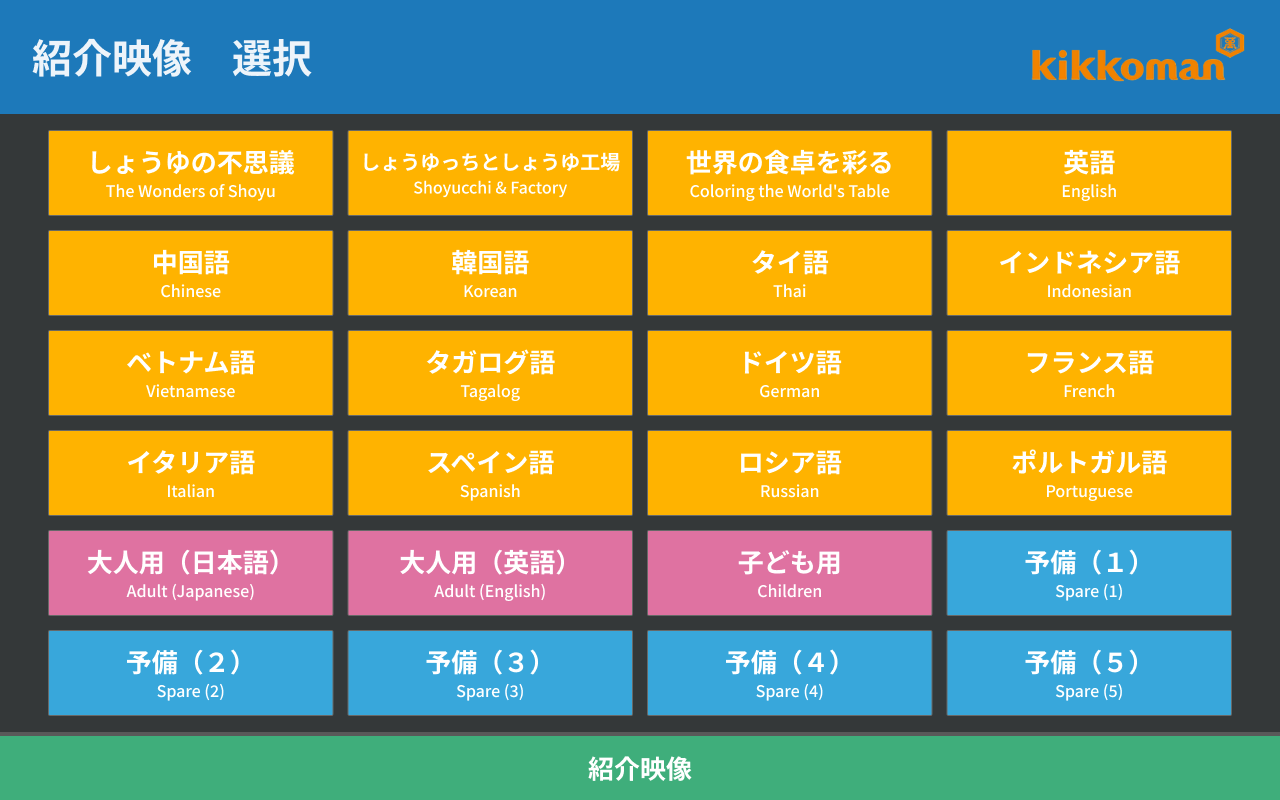
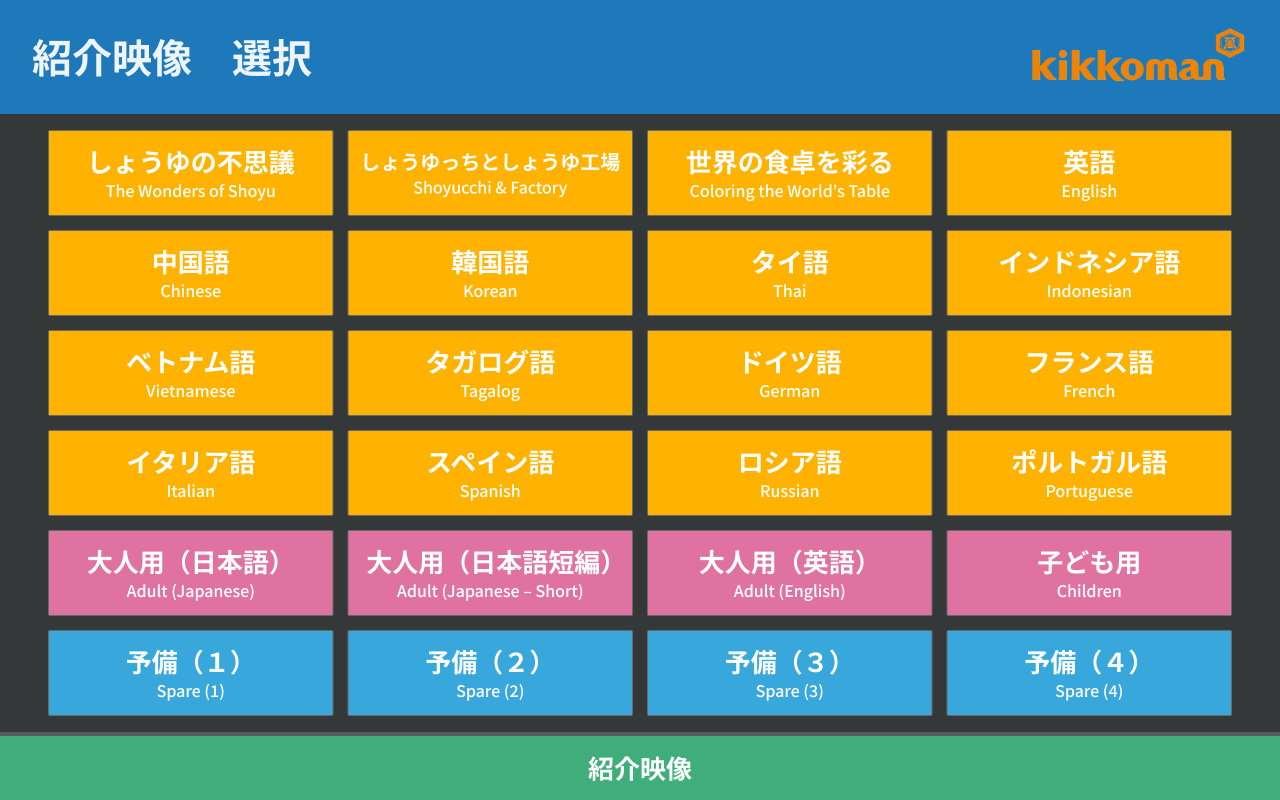
Added button

diff --git a/tools/multitouch-self-test.js b/tools/multitouch-self-test.js
@@ -171,6 +171,27 @@ assert.strictEqual(introButtons[0].style.width, "283px");
 assert.strictEqual(introButtons[0].style.height, "84px");
 assert.strictEqual(introButtons[0].classList.contains("compact-title"), false);
 assert.strictEqual(introButtons[1].classList.contains("compact-title"), true);
+var finalRows = [
+  { ja: "大人用（日本語）", en: "Adult (Japanese)" },
+  { ja: "大人用（日本語短編）", en: "Adult (Japanese – Short)" },
+  { ja: "大人用（英語）", en: "Adult (English)" },
+  { ja: "子ども用", en: "Children" },
+  { ja: "予備（1）", en: "Spare (1)" },
+  { ja: "予備（2）", en: "Spare (2)" },
+  { ja: "予備（3）", en: "Spare (3)" },
+  { ja: "予備（4）", en: "Spare (4)" }
+];
+finalRows.forEach(function (expected, offset) {
+  var button = introButtons[16 + offset];
+  var isSpare = 4 <= offset;
+  assert.strictEqual(button.attributes["aria-label"], expected.ja);
+  assert.strictEqual(button.children[1].textContent, expected.en);
+  assert.strictEqual(button.classList.contains("category-button"), !isSpare);
+  assert.strictEqual(button.classList.contains("spare-button"), isSpare);
+  assert.strictEqual(button.style.left, ["49px", "349px", "648px", "948px"][offset % 4]);
+  assert.strictEqual(button.style.top, isSpare ? "631px" : "531px");
+  assert.strictEqual(button.disabled, false);
+});
 
 introButtons[0].dispatch("pointerdown", { pointerId: 1, pointerType: "touch", buttons: 1 });
 introButtons[1].dispatch("pointerdown", { pointerId: 2, pointerType: "touch", buttons: 1 });
@@ -192,7 +213,7 @@ assert.strictEqual(introButtons[1].classList.contains("pressed"), false,
   "Other buttons must remain locked during the pre-crossfade delay");
 assert.strictEqual(sentPackets.length, 0, "Locked buttons must not send commands during the pre-crossfade delay");
 clock.advance(309);
-assert.strictEqual(elements["panel-image"].src, "assets/intro-video-selection.png?v=20261006-3",
+assert.strictEqual(elements["panel-image"].src, "assets/intro-video-selection.png?v=20261020-1",
   "The page transition must remain aligned to the press-start delay");
 clock.advance(1);
 assert.strictEqual(sentPackets.length, 0, "UDP must wait until the crossfade midpoint");
@@ -227,7 +248,7 @@ assert.strictEqual(introButtons[1].classList.contains("pressed"), false, "Subseq
 playbackStop.dispatch("pointerdown", { pointerId: 4, pointerType: "touch", buttons: 1 });
 assert.strictEqual(sentPackets.length, 1, "Stop UDP must wait for its crossfade midpoint");
 clock.advance(360);
-assert.strictEqual(elements["panel-image"].src, "assets/intro-video-selection.png?v=20261006-3");
+assert.strictEqual(elements["panel-image"].src, "assets/intro-video-selection.png?v=20261020-1");
 assert.strictEqual(sentPackets.length, 1, "Stop UDP must not send at the beginning of the crossfade");
   var stopTransitionOverlay = elements.stage.children[elements.stage.children.length - 1];
   var clonedStopButton = stopTransitionOverlay.children[1].querySelectorAll(".playback-stop")[0];
@@ -246,4 +267,20 @@ assert.deepStrictEqual(sentPackets[1], { payload: "STOP_VIDEO", port: 5001, ipAd
   assert.strictEqual(elements.stage.classList.contains("interaction-locked"), false,
     "Controls must unlock when the Stop crossfade finishes");
 
-console.log("Multi-touch self-test passed: simultaneous and rapid sequential selections preserve the first video and title.");
+finalRows.forEach(function (expected, offset) {
+  var button = elements.hotspots.querySelectorAll(".intro-button")[16 + offset];
+  button.dispatch("pointerdown", { pointerId: 100 + offset, pointerType: "touch", buttons: 1 });
+  button.dispatch("pointerup", { pointerId: 100 + offset, pointerType: "touch", buttons: 0 });
+  button.dispatch("click");
+  clock.advance(1000);
+  var lastPacket = sentPackets[sentPackets.length - 1];
+  assert.strictEqual(lastPacket.payload, "PLAY_" + (17 + offset), "Video commands must follow position order");
+  var title = elements.hotspots.querySelectorAll(".playback-label")[0];
+  assert.strictEqual(title.children[0].textContent, expected.ja, "Playback must use the selected title");
+  var stopButton = elements.hotspots.querySelectorAll(".playback-stop")[0];
+  stopButton.dispatch("pointerdown", { pointerId: 200 + offset, pointerType: "touch", buttons: 1 });
+  clock.advance(1000);
+  assert.strictEqual(sentPackets[sentPackets.length - 1].payload, "STOP_VIDEO");
+});
+
+console.log("Multi-touch self-test passed: first-touch locking and video titles, styling, positions, and commands for buttons 17–24.");

diff --git a/tools/intro-video-config-self-test.js b/tools/intro-video-config-self-test.js
@@ -45,7 +45,7 @@ function createElementStub() {
 
 var projectRoot = path.join(__dirname, "..");
 var config = JSON.parse(fs.readFileSync(path.join(projectRoot, "intro-videos.json"), "utf8"));
-var fixedNames = config.videos.slice(0, 19);
+var fixedNames = config.videos.slice(0, 20);
 config.videos = config.videos.map(function (video) {
   return { id: video.id, ja: "外部設定テスト " + video.id, en: "External Config Test " + video.id };
 });
@@ -105,7 +105,7 @@ fixedNames.forEach(function (video, index) {
     "JSON must not rename fixed button " + video.id);
   assert.strictEqual(introButtons[index].children[1].textContent, video.en);
 });
-for (var index = 19; index < introButtons.length; index += 1) {
+for (var index = 20; index < introButtons.length; index += 1) {
   var id = index + 1;
   assert.strictEqual(introButtons[index].attributes["aria-label"], "外部設定テスト " + id,
     "Expected external JSON to rename spare button " + id);
@@ -113,4 +113,4 @@ for (var index = 19; index < introButtons.length; index += 1) {
   assert.strictEqual(introButtons[index].disabled, false, "Spare buttons must remain enabled");
 }
 
-console.log("Intro-video config self-test passed: BOM and CRLF were accepted; only spare buttons 20–24 were renamed.");
+console.log("Intro-video config self-test passed: BOM and CRLF were accepted; only spare buttons 21–24 were renamed.");

diff --git a/app.js b/app.js
@@ -128,7 +128,7 @@
   var pages = {
     projector: { image: "assets/projector-control-panel.png", alt: "プロジェクター操作" },
     intro: {
-      image: "assets/intro-video-selection.png?v=20261006-3",
+      image: "assets/intro-video-selection.png?v=20261020-1",
       alt: "紹介映像 選択",
       navigationY: 736,
       navigationHeight: 64
@@ -234,13 +234,13 @@
     { ja: "ロシア語", en: "Russian" },
     { ja: "ポルトガル語", en: "Portuguese" },
     { ja: "大人用（日本語）", en: "Adult (Japanese)" },
+    { ja: "大人用（日本語短編）", en: "Adult (Japanese – Short)" },
     { ja: "大人用（英語）", en: "Adult (English)" },
     { ja: "子ども用", en: "Children" },
     { ja: "予備（1）", en: "Spare (1)", spare: true },
     { ja: "予備（2）", en: "Spare (2)", spare: true },
     { ja: "予備（3）", en: "Spare (3)", spare: true },
-    { ja: "予備（4）", en: "Spare (4)", spare: true },
-    { ja: "予備（5）", en: "Spare (5)", spare: true }
+    { ja: "予備（4）", en: "Spare (4)", spare: true }
   ];
 
   var stage = document.getElementById("stage");

diff --git a/tools/ui-config-self-test.js b/tools/ui-config-self-test.js
@@ -103,7 +103,7 @@ assert.strictEqual(configuredNavigation[0].style.left, "0px");
 assert.strictEqual(configuredNavigation[0].style.width, "640px");
 assert.strictEqual(configuredNavigation[1].style.left, "640px");
 assert.strictEqual(configuredNavigation[1].style.width, "640px");
-assert.strictEqual(configuredPanel.elements["panel-image"].src, "assets/intro-video-selection.png?v=20261006-3");
+assert.strictEqual(configuredPanel.elements["panel-image"].src, "assets/intro-video-selection.png?v=20261020-1");
 assert.strictEqual(configuredNavigation[0].style.top, "736px");
 assert.strictEqual(configuredNavigation[0].style.height, "64px");
 
@@ -112,7 +112,7 @@ var defaultTabPanel = createPanel(
   {},
   "intro"
 );
-assert.strictEqual(defaultTabPanel.elements["panel-image"].src, "assets/intro-video-selection.png?v=20261006-3");
+assert.strictEqual(defaultTabPanel.elements["panel-image"].src, "assets/intro-video-selection.png?v=20261020-1");
 assert.strictEqual(navigationButtons(defaultTabPanel)[1].classList.contains("active"), true);
 
 configuredNavigation[1].dispatch("click");

diff --git a/index.html b/index.html
@@ -11,7 +11,7 @@
     <script src="switcher-config.js?v=20261006-7"></script>
     <script src="bluray-config.js?v=20260901-1"></script>
     <script src="ui-config.js?v=20261009-21"></script>
-    <script src="app.js?v=20261009-20" defer></script>
+    <script src="app.js?v=20261020-1" defer></script>
   </head>
   <body>
     <main id="stage" aria-label="シアター操作パネル・テストアプリ">

diff --git a/README.md b/README.md
@@ -22,9 +22,9 @@ Action buttons use a continuous multi-stage blend from gray through a pale white
 
 Action controls use first-touch-wins handling. If two action buttons are touched at the same time, only the first touch is accepted; the second is ignored and cannot leave its button stuck red. This prevents conflicting video selections and overlapping device commands.
 
-The 24 introduction-selection buttons map in row order to `assets/video-playback-01.png` through `assets/video-playback-24.png`. Panels 17–19 are the Japanese adult, English adult, and children selections. The five enabled `予備` buttons map to panels 20–24. The playback title is rendered from the selected button label so it stays synchronized with this mapping.
+The 24 introduction-selection buttons retain the six-row, four-column layout in `assets/intro-video-selection.png`. Positions 17–20 are the pink Japanese adult, Japanese adult short, English adult, and children selections. The four enabled blue `予備` buttons occupy positions 21–24. Commands follow position order: with the supplied UDP configuration, the new Japanese adult short button sends `BS_PLAY18`, English adult sends `BS_PLAY19`, children sends `BS_PLAY20`, and spares send `BS_PLAY21` through `BS_PLAY24`. All selections use the shared playback background and show the selected Japanese button name as the playback title.
 
-Only the last five spare (`予備`) introduction-video buttons, IDs 20–24, can be renamed through `intro-videos.json`. Edit their `ja` and `en` names; buttons 1–19 always use the built-in names, even if their JSON names are changed. The selected playback title follows the spare button's updated Japanese name. Keep the existing JSON structure and all 24 unique `id` values; the ID controls the button position, `PLAY_XX` command number, and numbered playback panel.
+Only the last four spare (`予備`) introduction-video buttons, IDs 21–24, can be renamed through `intro-videos.json`. Edit their `ja` and `en` names; buttons 1–20 always use the built-in names, even if their JSON names are changed. The selected playback title follows the spare button's updated Japanese name. Keep the existing JSON structure and all 24 unique `id` values; the ID controls the button position and video command number. Both the bundled JSON and the upload copy in the workspace root use this updated mapping. Replace any older SD-root JSON with the updated copy, and align the receiver's video assignments with positions 18–24.
 
 To apply spare-button names on the player, upload `intro-videos.json` to the root of the SD storage in DWS (`/sd/intro-videos.json`), then manually reboot the player. At startup, the application first reads `/storage/sd/intro-videos.json`. If that external file is missing, unreadable, or invalid, it loads the `intro-videos.json` bundled with the published HTML site. If neither file can be loaded, the panel safely uses its built-in names. For desktop Chrome or Edge testing, serve this folder from localhost; the browser uses the bundled JSON because it cannot access the player's `/storage/sd` filesystem.
 
